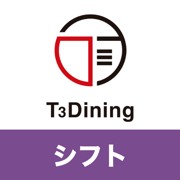
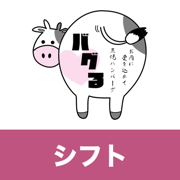
シフト提出：アイコンをバグるに、名前をバグる シフト提出に

diff --git a/shift/index.html b/shift/index.html
@@ -12,12 +12,12 @@
 <meta name="apple-mobile-web-app-capable" content="yes">
 <meta name="apple-mobile-web-app-status-bar-style" content="black">
 <meta name="apple-mobile-web-app-title" content="シフト">
-<meta name="theme-color" content="#1c1f26">
-<link rel="apple-touch-icon" href="../img/shift-icon-180.png?v=9c8b6491">
-<link rel="icon" href="../img/shift-icon-64.png?v=46d9f893">
+<meta name="theme-color" content="#bf5480">
+<link rel="apple-touch-icon" href="../img/shift-icon-180.png?v=68ba81bc">
+<link rel="icon" href="../img/shift-icon-64.png?v=0937bb3b">
 
 <link rel="stylesheet" href="css/submit.css?v=ea039bd0">
-<meta name="app-version" content="27d2b0be">
+<meta name="app-version" content="a38f423b">
 </head>
 <body>
 

diff --git a/sw.js b/sw.js
@@ -18,11 +18,11 @@
  *    印も変わります。つまり古い控えが混ざる心配がないので、
  *    控えがあればそれをそのまま使います（起動が速くなります）。
  *
- *  ★このファイルは 公開用を作る.py が 27d2b0be を版の印に
+ *  ★このファイルは 公開用を作る.py が a38f423b を版の印に
  *    書き換えてから公開されます。
  * ============================================================ */
 
-const VERSION = '27d2b0be';
+const VERSION = 'a38f423b';
 const CACHE = 't3works-' + VERSION;
 
 /* 新しいこのファイルが届いたら、前のものを待たずにすぐ交代します */

diff --git a/drive/index.html b/drive/index.html
@@ -13,7 +13,7 @@
 <link rel="icon" type="image/png" sizes="64x64" href="../img/drive-icon-64.png?v=7088d4ae">
 <title>配達記録｜バグる</title>
 <link rel="stylesheet" href="../css/style.css?v=9960a0d6">
-<meta name="app-version" content="27d2b0be">
+<meta name="app-version" content="a38f423b">
 </head>
 <body class="no-daytabs app-drive" data-assets="../">
 

diff --git a/mine/index.html b/mine/index.html
@@ -14,7 +14,7 @@
 <link rel="icon" type="image/png" sizes="64x64" href="../img/mine-icon-64.png?v=ea09f133">
 <title>T3 Works Mine｜T3Dining株式会社</title>
 <link rel="stylesheet" href="../css/style.css?v=9960a0d6">
-<meta name="app-version" content="27d2b0be">
+<meta name="app-version" content="a38f423b">
 </head>
 <body data-mode="mine" data-assets="../">
 

diff --git a/story/index.html b/story/index.html
@@ -13,7 +13,7 @@
 <title>ストーリーズ作成｜T3 Works</title>
 <link rel="stylesheet" href="../css/style.css?v=9960a0d6">
 <link rel="stylesheet" href="css/story.css?v=55f08ac0">
-<meta name="app-version" content="27d2b0be">
+<meta name="app-version" content="a38f423b">
 </head>
 <body class="no-daytabs app-story" data-assets="../">
 

diff --git a/index.html b/index.html
@@ -14,7 +14,7 @@
 <link rel="icon" type="image/png" sizes="64x64" href="img/works-icon-64.png?v=0f9cbed2">
 <title>T3 Works｜T3Dining株式会社</title>
 <link rel="stylesheet" href="css/style.css?v=9960a0d6">
-<meta name="app-version" content="27d2b0be">
+<meta name="app-version" content="a38f423b">
 </head>
 <body>
 

diff --git a/manage/index.html b/manage/index.html
@@ -14,7 +14,7 @@
 <title>T3 Works Manage｜T3Dining株式会社</title>
 <link rel="stylesheet" href="../css/style.css?v=9960a0d6">
 <link rel="stylesheet" href="css/admin.css?v=e9145f39">
-<meta name="app-version" content="27d2b0be">
+<meta name="app-version" content="a38f423b">
 </head>
 <body class="no-daytabs">
 

diff --git a/owner/index.html b/owner/index.html
@@ -85,7 +85,7 @@ body {
   font-variant-numeric: tabular-nums;
 }
 </style>
-<meta name="app-version" content="27d2b0be">
+<meta name="app-version" content="a38f423b">
 </head>
 <body class="no-daytabs">
 
